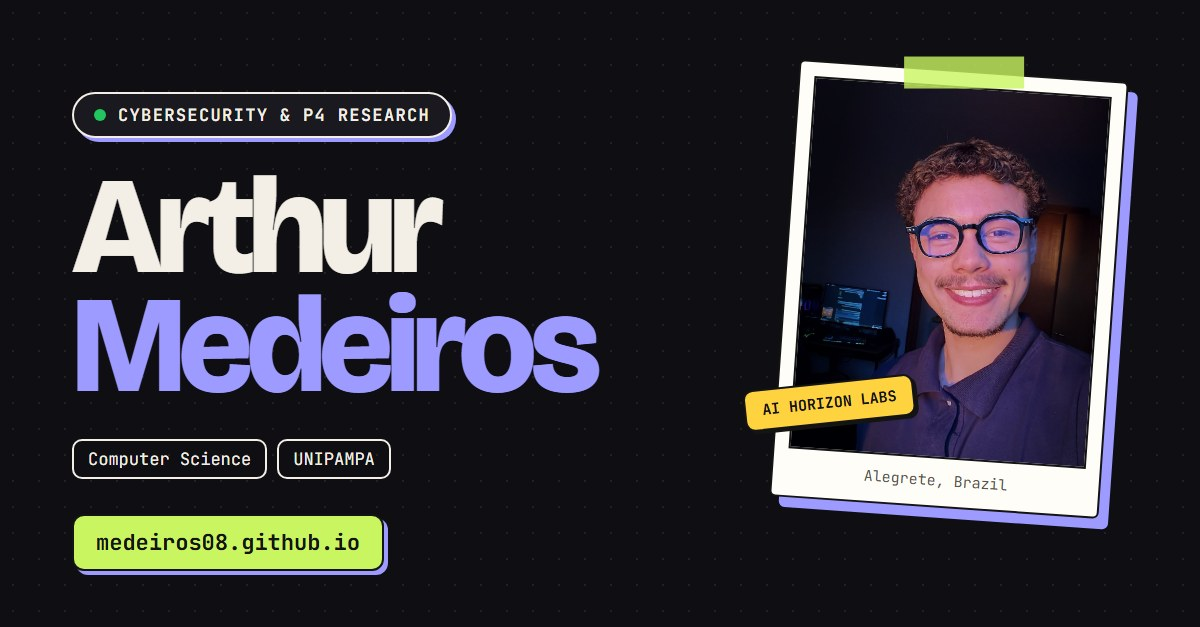
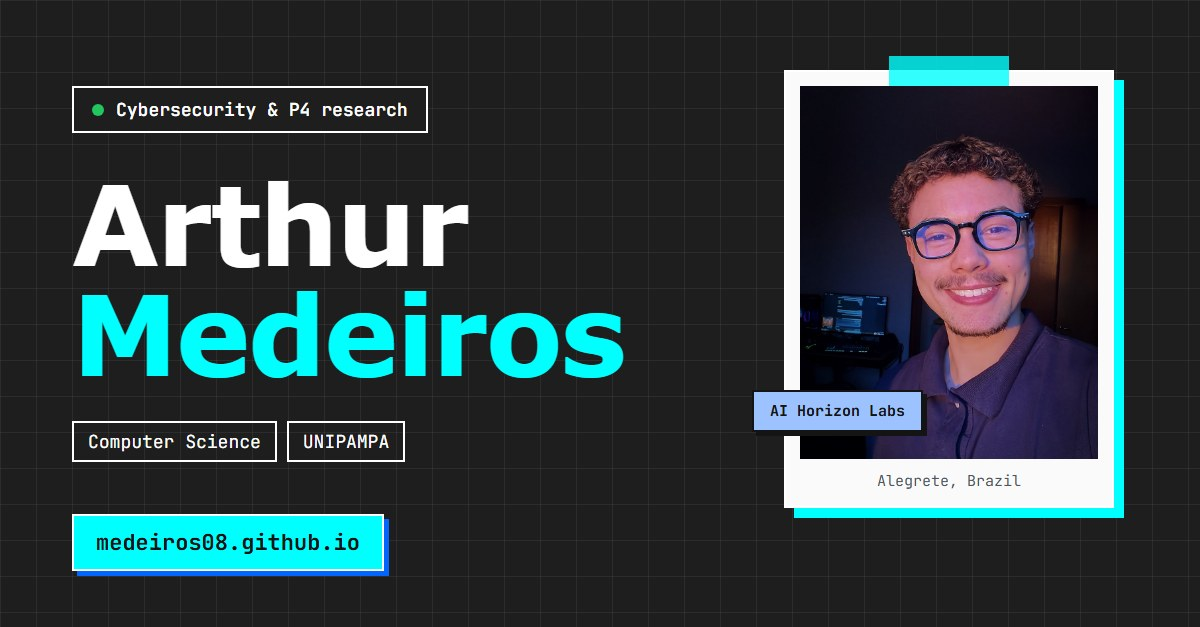
Imagem de compartilhamento no visual do tema Tecnologia

diff --git a/index.html b/index.html
@@ -20,7 +20,7 @@
   <meta property="og:url" content="https://medeiros08.github.io/">
   <meta property="og:title" content="Arthur Medeiros · Pesquisa em cibersegurança e P4">
   <meta property="og:description" content="Estudante de Ciência da Computação na UNIPAMPA e membro do AI Horizon Labs. Pesquiso como redes programáveis com P4 podem tornar a comunicação mais segura.">
-  <meta property="og:image" content="https://medeiros08.github.io/img/compartilhar.jpg?v=2">
+  <meta property="og:image" content="https://medeiros08.github.io/img/compartilhar.jpg?v=3">
   <meta property="og:image:width" content="1200">
   <meta property="og:image:height" content="627">
   <meta property="og:image:alt" content="Arthur Medeiros, pesquisa em cibersegurança e P4">

diff --git a/en/index.html b/en/index.html
@@ -20,7 +20,7 @@
   <meta property="og:url" content="https://medeiros08.github.io/en/">
   <meta property="og:title" content="Arthur Medeiros · Cybersecurity and P4 research">
   <meta property="og:description" content="Computer Science student at UNIPAMPA (Brazil) and member of AI Horizon Labs. I research how programmable networks with P4 can make communication more secure.">
-  <meta property="og:image" content="https://medeiros08.github.io/img/compartilhar-en.jpg?v=1">
+  <meta property="og:image" content="https://medeiros08.github.io/img/compartilhar-en.jpg?v=2">
   <meta property="og:image:width" content="1200">
   <meta property="og:image:height" content="627">
   <meta property="og:image:alt" content="Arthur Medeiros, cybersecurity and P4 research">
